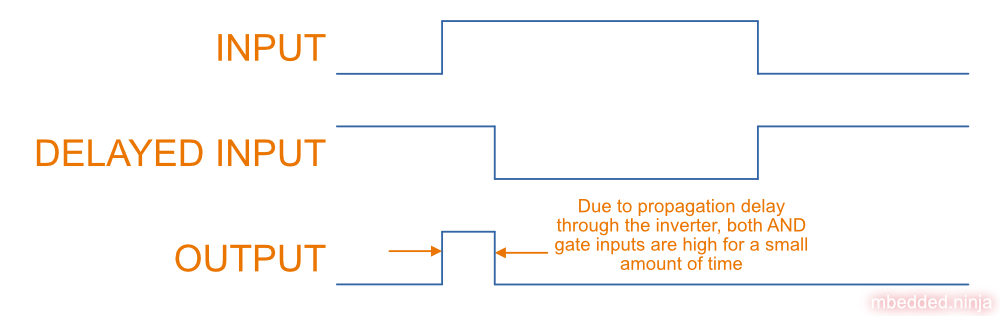
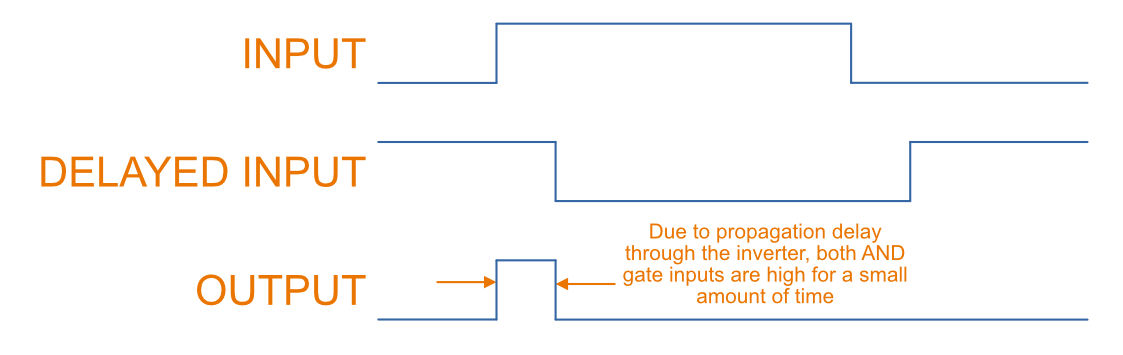
Added schematic of edge detecting circuit.

diff --git a/content/electronics/circuit-design/digital-logic/latches-and-flip-flops/_index.md b/content/electronics/circuit-design/digital-logic/latches-and-flip-flops/_index.md
@@ -42,9 +42,9 @@ Driving either S or R high allows you to set the latch into the 1 or 0 state res
   </thead>
   <tbody>
     <tr><td>0</td>  <td>0</td>  <td>\(Q\)</td>  <td>\(\bar{Q}\)</td>  <td>Hold</td></tr>
-    <tr><td>0</td>  <td>1</td>  <td>0</td>  <td>1</td>            <td>Reset</td></tr>
-    <tr><td>1</td>  <td>0</td>  <td>1</td>  <td>0</td>            <td>Set</td></tr>
-    <tr><td>1</td>  <td>1</td>  <td>0</td>  <td>0</td>            <td>Not allowed</td></tr>
+    <tr><td>0</td>  <td>1</td>  <td>0</td>      <td>1</td>            <td>Reset</td></tr>
+    <tr><td>1</td>  <td>0</td>  <td>1</td>      <td>0</td>            <td>Set</td></tr>
+    <tr><td>1</td>  <td>1</td>  <td>0</td>      <td>0</td>            <td>Not allowed</td></tr>
   </tbody>
 </table>
 
@@ -123,11 +123,15 @@ _Flip-flops_ are like latches, except the input is only propagated to the output
 
 ### Edge Detection
 
-How does the front-end edge-detecting circuit work? It is a very simple circuit made from an inverter and an AND gate, and exploits the non-zero propagation delay time through the inverter. When the input changes from a 0 to a 1, the delay through the inverter causes both of the inputs to go high for a brief amount of time, which makes the output 1. This enables the latch for a very brief amount of time during the positive edge transition.
+The key feature about a flip-flop is edge-triggered nature of them vs. latched. So how do you design a flip-flop to only do something on the edges of the clock signal? **One very simple way is a circuit made from an inverter and an AND gate**, and exploits the non-zero propagation delay time through the inverter. When the input changes from a 0 to a 1, the delay through the inverter causes both of the inputs to go high for a brief amount of time, which makes the output 1. This enables the latch for a very brief amount of time during the positive edge transition.
 
-The timing diagram for the circuit is shown below:
+The is the basic schematic:
 
-{{% figure src="edge-detection-using-and-inverter-timing-diagram.png" width="500px" caption="Positive edge-detecting circuit made from an inverter and an AND gate. This circuit exploits the non-zero propagation delay through the inverter." %}}
+{{% figure src="edge-detection-using-and-inverter.png" width="500px" caption="Simple edge detection circuit made with an inverter and AND gate." %}}
+
+And this is what the timing looks like:
+
+{{% figure src="edge-detection-using-and-inverter-timing-diagram.png" width="700px" caption="Positive edge-detecting circuit made from an inverter and an AND gate. This circuit exploits the non-zero propagation delay through the inverter." %}}
 
 {{% note %}}
 Any odd number of inverters may be placed in series to increase the pulse-width of the output signal. You commonly see this circuit drawn with three. An RC circuit may also be used to increase the pulse-width.
@@ -141,9 +145,9 @@ A _D-type flip-flop_ (where the D either stands for **D**elay or **D**ata depend
 
 {{% figure src="d-flipflop-symbol-level.png" width="300px" caption="The schematic symbol for a D-type flipflop." %}}
 
-The wedge symbol drawn against the `CLD 
+The wedge symbol drawn against the `CLK` input to tell the reader it is an edge-triggered input.
 
-But how is a D flip-flop actually made? Basically, you could add the edge-trigger circuit to the `\(E\)` line of a D latch (as shown above) to make a D flip-flop:
+But how is a D flip-flop actually made? Basically, you could add the edge-trigger circuit to the `\(E\)` (enable) line of a D latch (as shown above) to make a D flip-flop:
 
 {{% figure src="d-flipflop-with-time-delay-trigger.png" width="800px" caption="A D flip-flop made from a D NAND-based latch and additional edge-trigger circuit." %}}
 
@@ -153,15 +157,11 @@ You can actually eliminate the need the inverting/NAND gate altogether by connec
 
 {{% figure src="d-flipflop-internals-no-inv-gate.svg" width="800px" caption="A D-type flip-flop with the inverting/NAND gate removed by connecting the output of the top NAND to the input of the bottom NAND." %}}
 
-You may have noticed that the output stage of the D-type flip-flop looks familiar -- that's because it's just an SR latch! The below image highlights the SR latch section of a D-type flip-flop.
-
-{{% figure src="d-flipflop-internals-highlighting-sr-latch.svg" width="800px" caption="A D flip-flop is just a SR latch with some extra circuitry added on the front end to add in the delay functionality." %}}
-
 D-type flip-flops are used for counters, shift-registers and input synchronization.
 
 #### Real-World D-Type Flip-Flops
 
-In reality, the actual D-type flip-flops you can buy can be much more complicated than what we have just discussed!
+In reality, the actual D-type flip-flops you can buy can be much more complicated than what we have just discussed! This is the logic diagram for the Nexperia `74HC74` dual D-type flip-flop IC[^bib-nexperia-74hc74-ds]:
 
 {{% figure src="nexperia-74hc74-d-flip-flop-logic-diagram.png" width="700px" caption="Logic diagram for 1 of the positive-edge triggered D-type flip-flops in the Nexperia 74HC74 IC. Note the complexity![^bib-nexperia-74hc74-ds]" %}}
 
